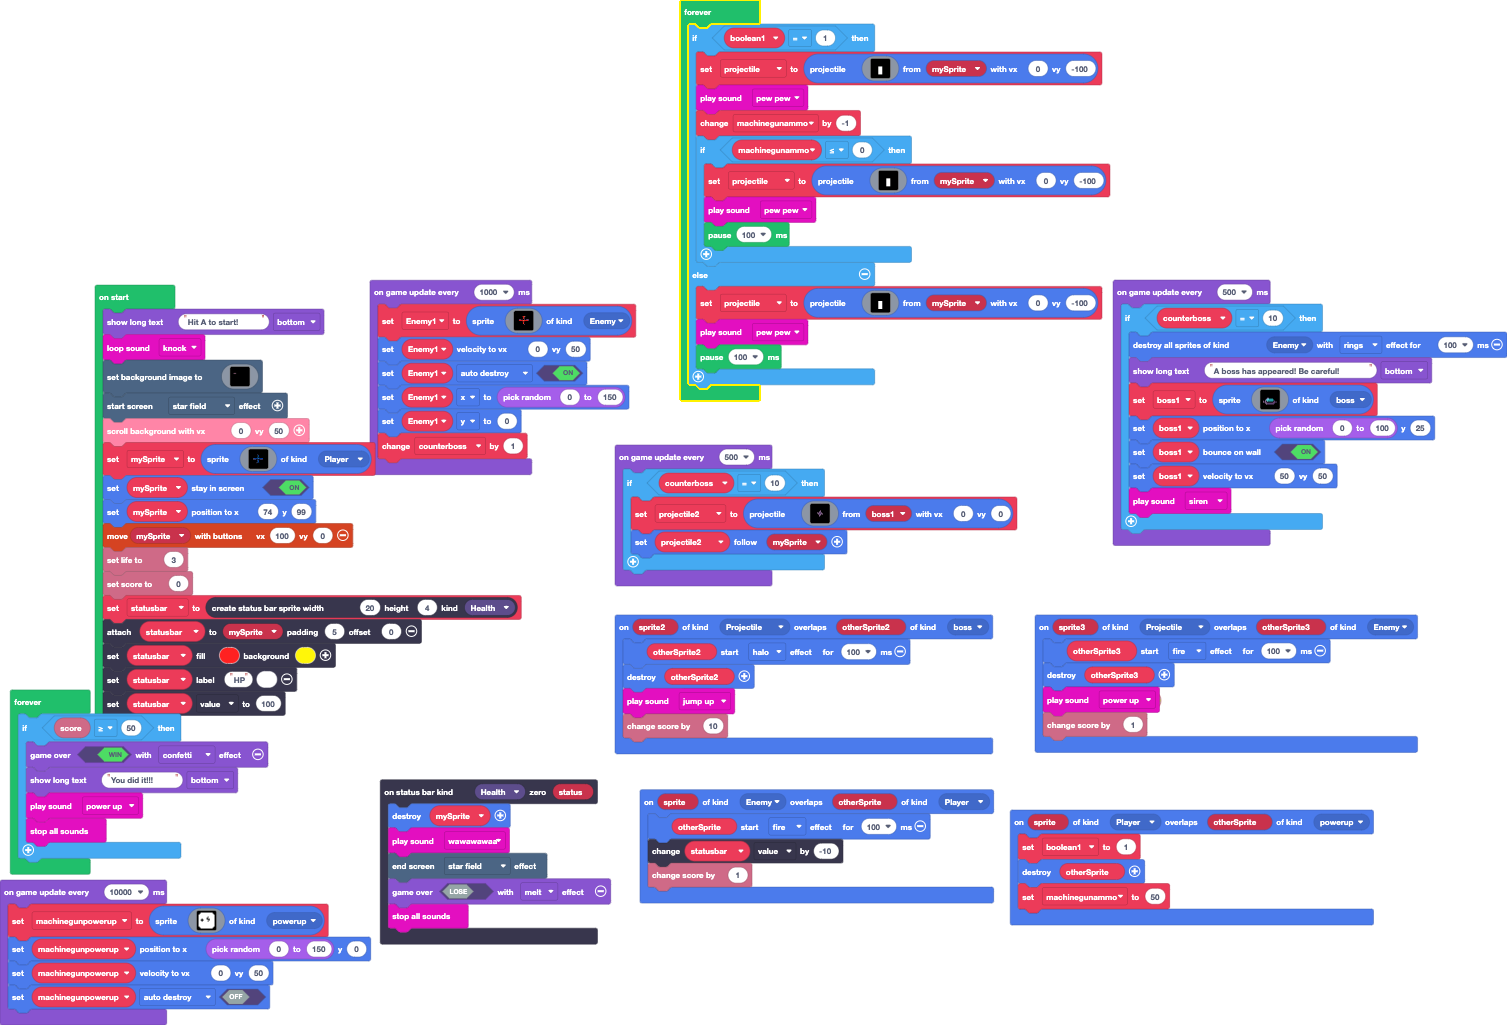
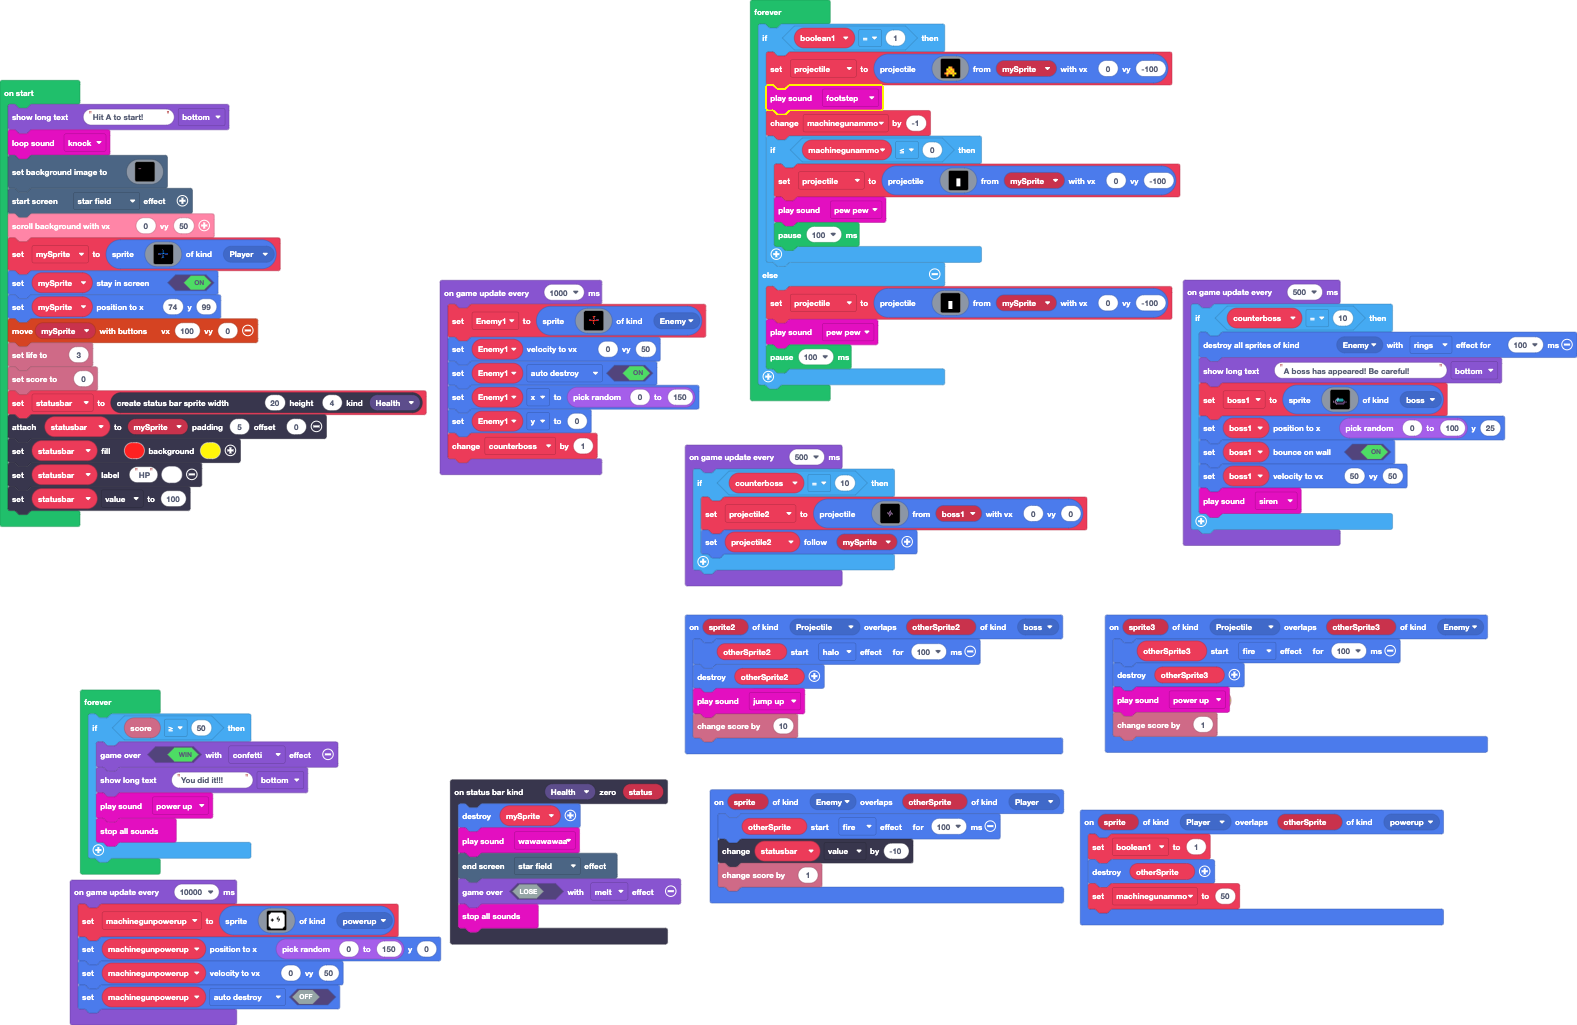
retextured things

Changed region(s): [[0.0, 0.0, 0.998, 1.0], [0.8421, 0.4995, 0.9044, 0.5307]]

diff --git a/main.ts b/main.ts
@@ -230,13 +230,13 @@ forever(function () {
             . . . . . . . . 
             . . . . . . . . 
             . . . . . . . . 
-            . . . 1 1 . . . 
-            . . . 1 1 . . . 
-            . . . 1 1 . . . 
-            . . . 1 1 . . . 
-            . . . . . . . . 
+            . . . 5 4 . . . 
+            . . 5 4 5 4 . . 
+            . . 4 5 4 5 . . 
+            . 4 5 4 5 4 5 . 
+            . . 4 . . 5 . . 
             `, mySprite, 0, -100)
-        music.pewPew.play()
+        music.footstep.play()
         machinegunammo += -1
         if (machinegunammo <= 0) {
             projectile = sprites.createProjectileFromSprite(img`
